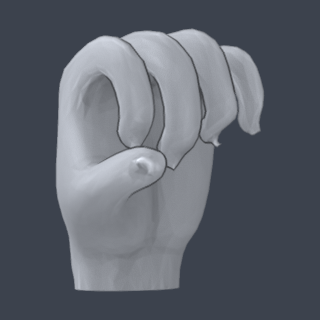
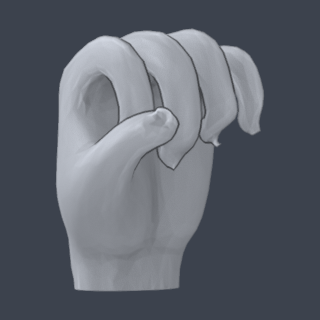
fix(hands): tuck fist thumbs against the curled index

diff --git a/docs/HAND_FIST_QUALITY_2026-10-27.md b/docs/HAND_FIST_QUALITY_2026-10-27.md
@@ -4,7 +4,8 @@
 male/female meshes. Their optional `closed_fist_v2` articulation profile now uses
 coherent cumulative bending, explicit thumb opposition, volume-preserving skin
 deformation and eight local smoothing iterations. Smoothing retains topology and
-skin groups. The female rig also needs guarded middle/ring root correction: it
+skin groups. Thumb opposition is tightened so the distal thumb lies alongside
+the curled index rather than projecting away from the fist. The female rig also needs guarded middle/ring root correction: it
 only runs when a root is more than 1.18 times the outer fingers' wrist distance.
 Reconstructed chains retain their tips; local skin weights retain total mass.
 
@@ -28,7 +29,7 @@ the other 154 thumbnails retain their original bytes.
   (both fists, both tremble fists, right fist with left unselected).
 - Eight saved-FBX hand configurations: no capsule contacts and no noncoplanar
   nonadjacent triangle crossings detected within the same hand.
-- Maximum non-hand vertex movement: 0.0156 mm. Maximum unselected-hand movement:
+- Maximum non-hand vertex movement: 0.0066 mm. Maximum unselected-hand movement:
   0.00045 mm. Body-bone matrix error stays below 1e-5. Mesh vertex/face counts,
   skin-group names, total skin weights and input file bytes are preserved.
 - Fist and tremble-fist exported meshes match to a micrometre on each character.
